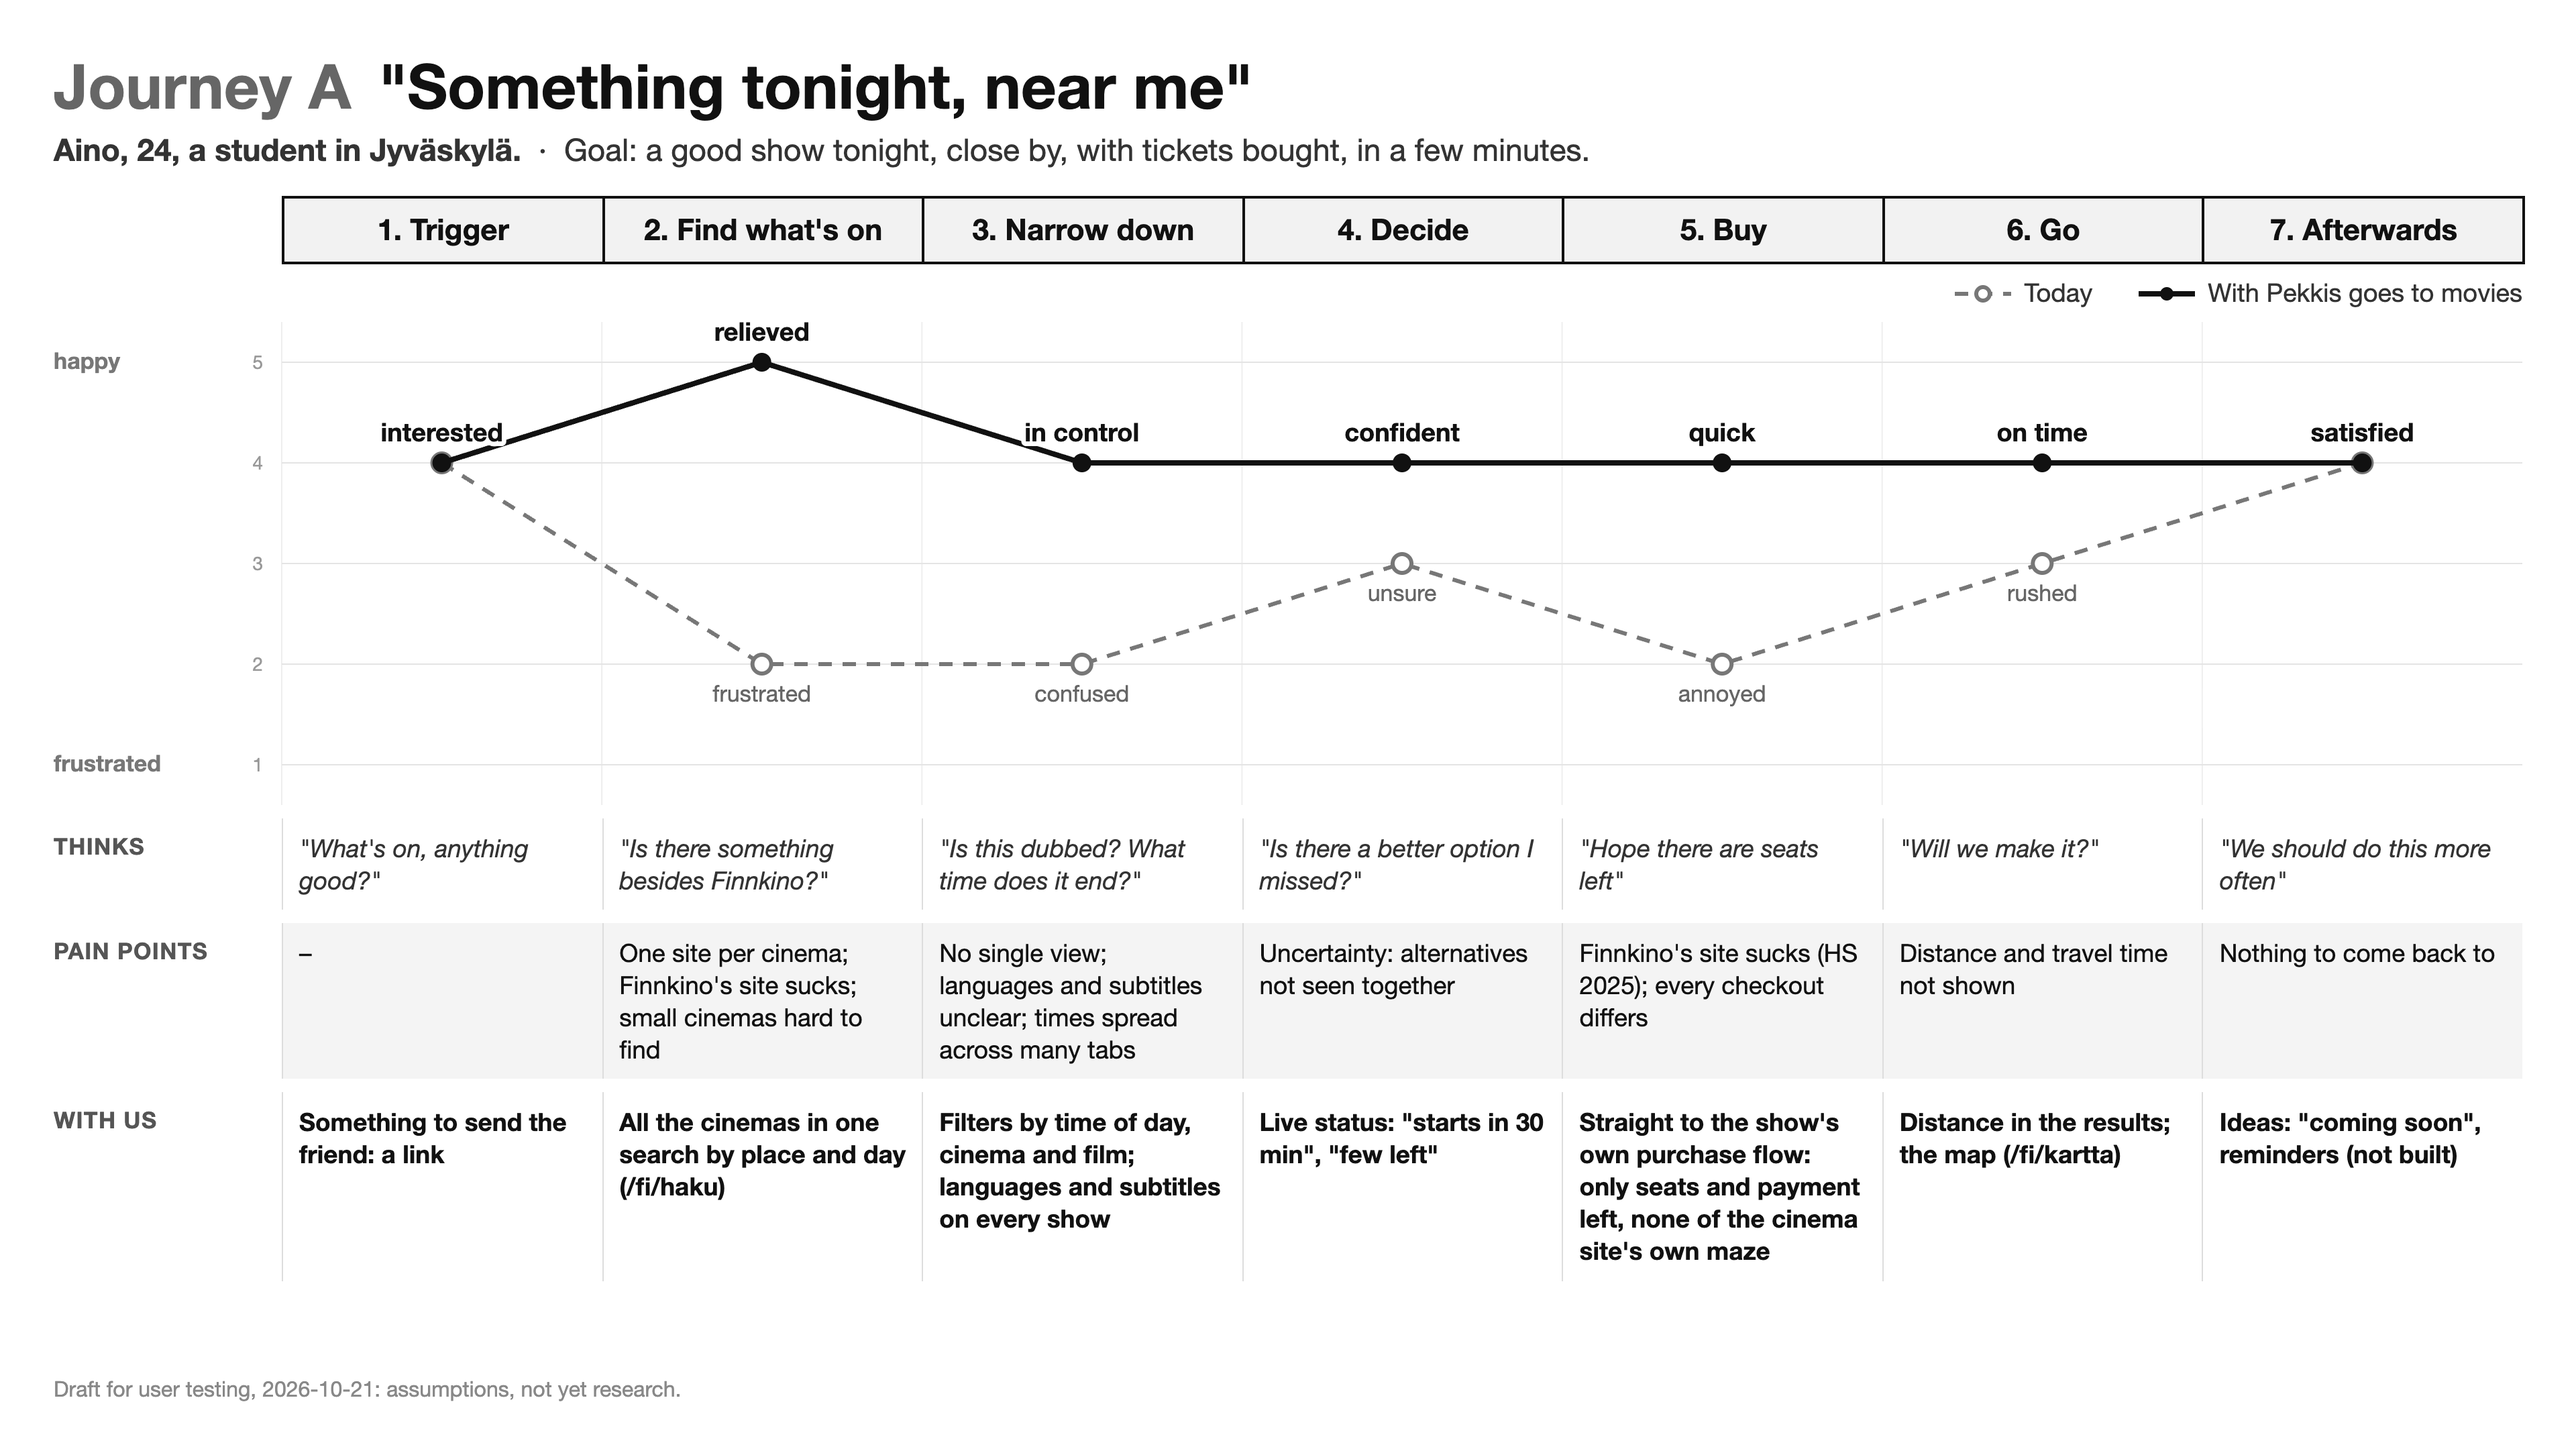
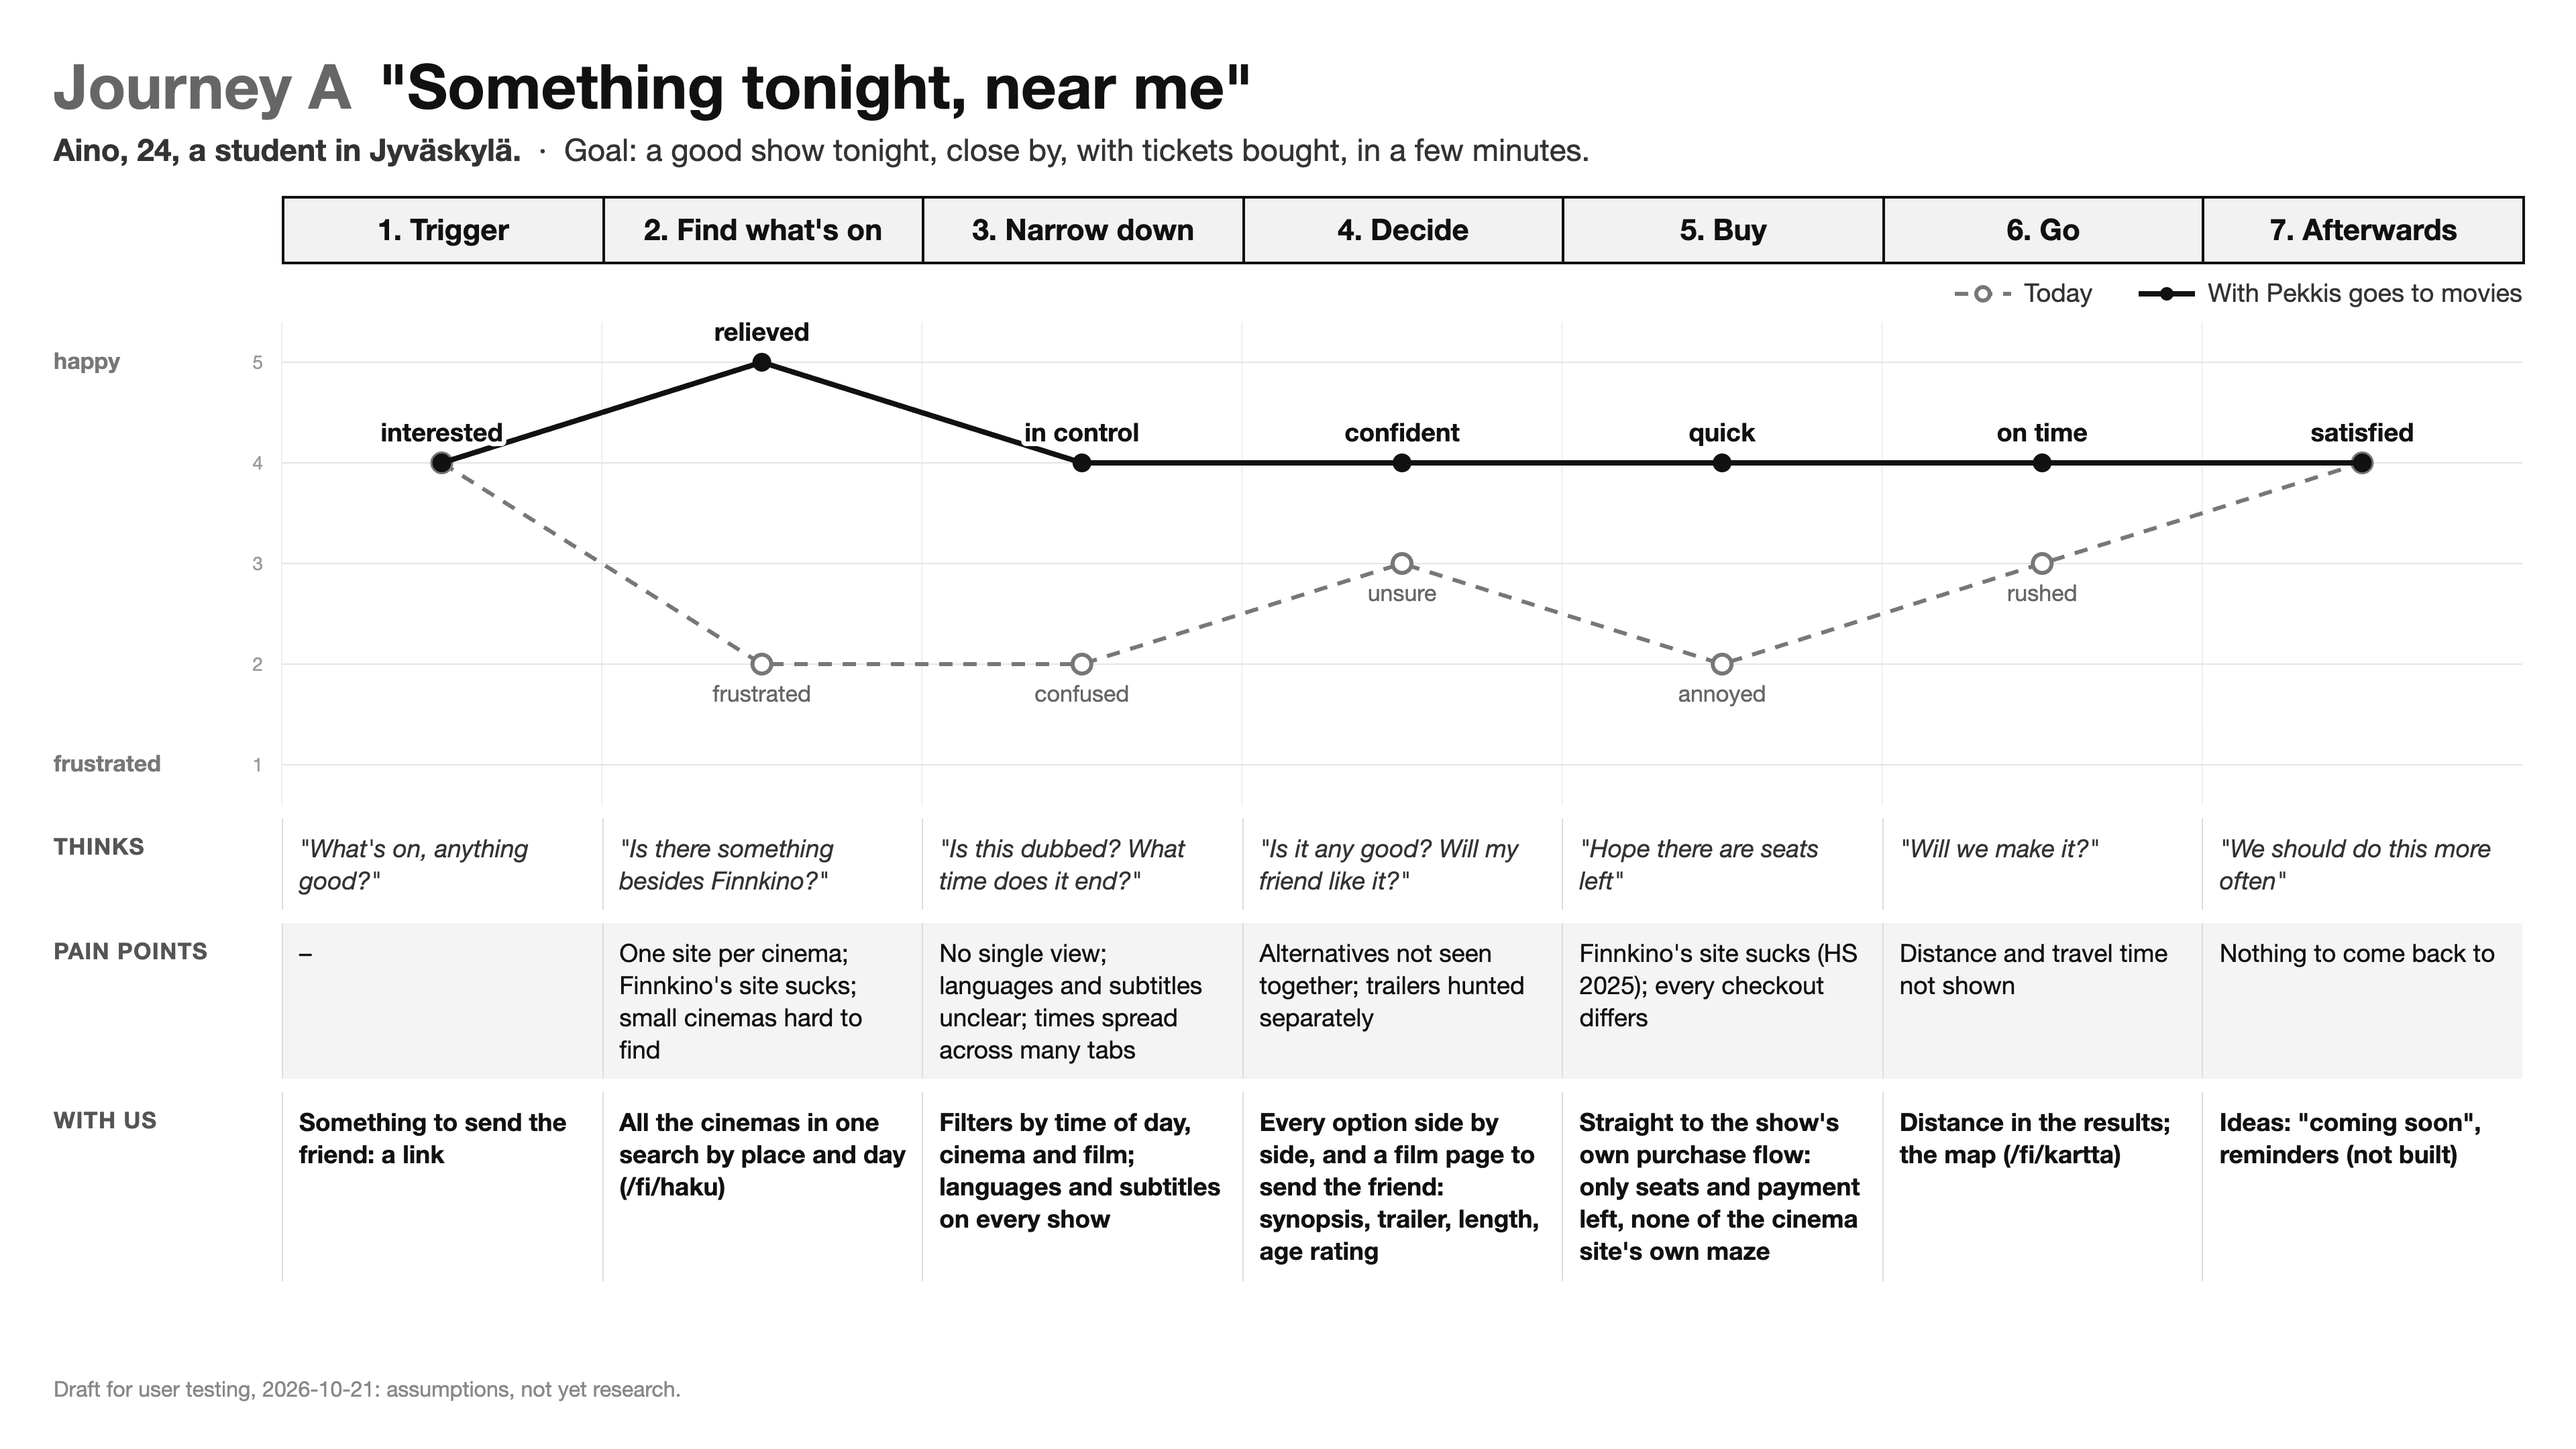
Journey A, decide: the film page to send the friend, not live seat counts
Seat availability is a snapshot from the last pull, never live; the
film page (synopsis, trailer, length, age rating) is what helps two
people decide together.

Changed region(s): [[0.4688, 0.7444, 0.5938, 0.8685], [0.4688, 0.6514, 0.5938, 0.7134], [0.5, 0.5583, 0.5938, 0.6204]]

diff --git a/docs/design/journey-map.md b/docs/design/journey-map.md
@@ -25,15 +25,15 @@ The diagrams are Mermaid `journey` charts. GitHub renders them in place. For sli
 
 **Goal:** a good show tonight, close by, with tickets bought, in a few minutes.
 
-| Stage               | 1. Trigger                           | 2. Find what's on                                                      | 3. Narrow down                                                                     | 4. Decide                                       | 5. Buy                                                                                                        | 6. Go                                               | 7. Afterwards                               |
-| ------------------- | ------------------------------------ | ---------------------------------------------------------------------- | ---------------------------------------------------------------------------------- | ----------------------------------------------- | ------------------------------------------------------------------------------------------------------------- | --------------------------------------------------- | ------------------------------------------- |
-| **Does**            | Agrees to go; opens the phone        | Opens one cinema's site after another, or searches "leffat jyväskylä"  | Compares times, films, languages; asks the friend                                  | Picks a show both can make                      | Follows the cinema's ticket link, pays                                                                        | Walks or takes the bus; arrives in time             | Talks about the film; maybe plans again     |
-| **Thinks**          | "What's on, anything good?"          | "Is there something besides Finnkino?"                                 | "Is this dubbed? What time does it end?"                                           | "Is there a better option I missed?"            | "Hope there are seats left"                                                                                   | "Will we make it?"                                  | "We should do this more often"              |
-| **Touchpoints**     | Messaging app                        | Each cinema's own site, search engine, social media                    | Cinemas' sites, the chat with the friend                                           | –                                               | The cinema's ticket page                                                                                      | Map app, bus                                        | Social media, chat                          |
-| **Pain points**     | –                                    | One site per cinema; Finnkino's site sucks; small cinemas hard to find | No single view; languages and subtitles unclear; times spread across many tabs     | Uncertainty: alternatives not seen together     | Finnkino's site sucks ([HS 2025](https://www.hs.fi/kulttuuri/art-2000011591275.html)); every checkout differs | Distance and travel time not shown                  | Nothing to come back to                     |
-| **Opportunities**   | Something to send the friend: a link | **All the cinemas in one search by place and day** (`/fi/haku`)        | **Filters by time of day, cinema and film; languages and subtitles on every show** | **Live status:** "starts in 30 min", "few left" | **Straight to the show's own purchase flow**: only seats and payment left, none of the cinema site's own maze | **Distance in the results; the map** (`/fi/kartta`) | Ideas: "coming soon", reminders (not built) |
-| **Feeling today**   | 4 · interested                       | 2 · frustrated                                                         | 2 · confused                                                                       | 3 · unsure                                      | 2 · annoyed                                                                                                   | 3 · rushed                                          | 4 · satisfied                               |
-| **Feeling with us** | 4 · interested                       | 5 · relieved                                                           | 4 · in control                                                                     | 4 · confident                                   | 4 · quick                                                                                                     | 4 · on time                                         | 4 · satisfied                               |
+| Stage               | 1. Trigger                           | 2. Find what's on                                                      | 3. Narrow down                                                                     | 4. Decide                                                                                                | 5. Buy                                                                                                        | 6. Go                                               | 7. Afterwards                               |
+| ------------------- | ------------------------------------ | ---------------------------------------------------------------------- | ---------------------------------------------------------------------------------- | -------------------------------------------------------------------------------------------------------- | ------------------------------------------------------------------------------------------------------------- | --------------------------------------------------- | ------------------------------------------- |
+| **Does**            | Agrees to go; opens the phone        | Opens one cinema's site after another, or searches "leffat jyväskylä"  | Compares times, films, languages; asks the friend                                  | Picks a show both can make                                                                               | Follows the cinema's ticket link, pays                                                                        | Walks or takes the bus; arrives in time             | Talks about the film; maybe plans again     |
+| **Thinks**          | "What's on, anything good?"          | "Is there something besides Finnkino?"                                 | "Is this dubbed? What time does it end?"                                           | "Is it any good? Will my friend like it?"                                                                | "Hope there are seats left"                                                                                   | "Will we make it?"                                  | "We should do this more often"              |
+| **Touchpoints**     | Messaging app                        | Each cinema's own site, search engine, social media                    | Cinemas' sites, the chat with the friend                                           | –                                                                                                        | The cinema's ticket page                                                                                      | Map app, bus                                        | Social media, chat                          |
+| **Pain points**     | –                                    | One site per cinema; Finnkino's site sucks; small cinemas hard to find | No single view; languages and subtitles unclear; times spread across many tabs     | Alternatives not seen together; trailers hunted separately                                               | Finnkino's site sucks ([HS 2025](https://www.hs.fi/kulttuuri/art-2000011591275.html)); every checkout differs | Distance and travel time not shown                  | Nothing to come back to                     |
+| **Opportunities**   | Something to send the friend: a link | **All the cinemas in one search by place and day** (`/fi/haku`)        | **Filters by time of day, cinema and film; languages and subtitles on every show** | **Every option side by side, and a film page to send the friend**: synopsis, trailer, length, age rating | **Straight to the show's own purchase flow**: only seats and payment left, none of the cinema site's own maze | **Distance in the results; the map** (`/fi/kartta`) | Ideas: "coming soon", reminders (not built) |
+| **Feeling today**   | 4 · interested                       | 2 · frustrated                                                         | 2 · confused                                                                       | 3 · unsure                                                                                               | 2 · annoyed                                                                                                   | 3 · rushed                                          | 4 · satisfied                               |
+| **Feeling with us** | 4 · interested                       | 5 · relieved                                                           | 4 · in control                                                                     | 4 · confident                                                                                            | 4 · quick                                                                                                     | 4 · on time                                         | 4 · satisfied                               |
 
 ```mermaid
 ---
@@ -84,7 +84,7 @@ journey
     Filters to evening shows: 4: Aino, Pekkis
     Languages, subtitles: 4: Aino, Pekkis
   section Decide
-    Sees few seats left: 4: Aino, Pekkis
+    Sends the friend a trailer: 4: Aino, Pekkis
   section Buy
     Straight to seat choice: 4: Aino, Cinema
   section Go
